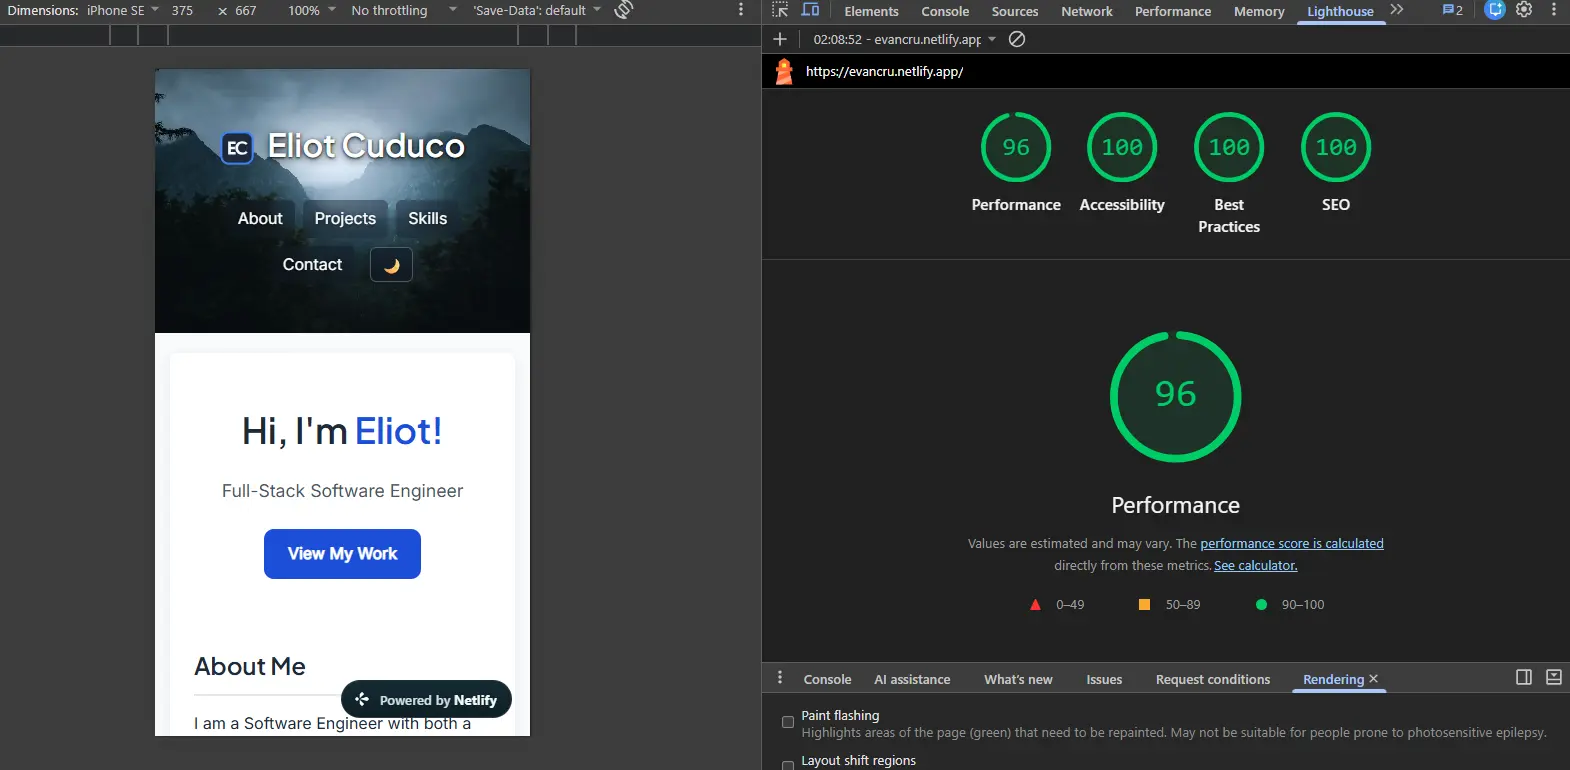
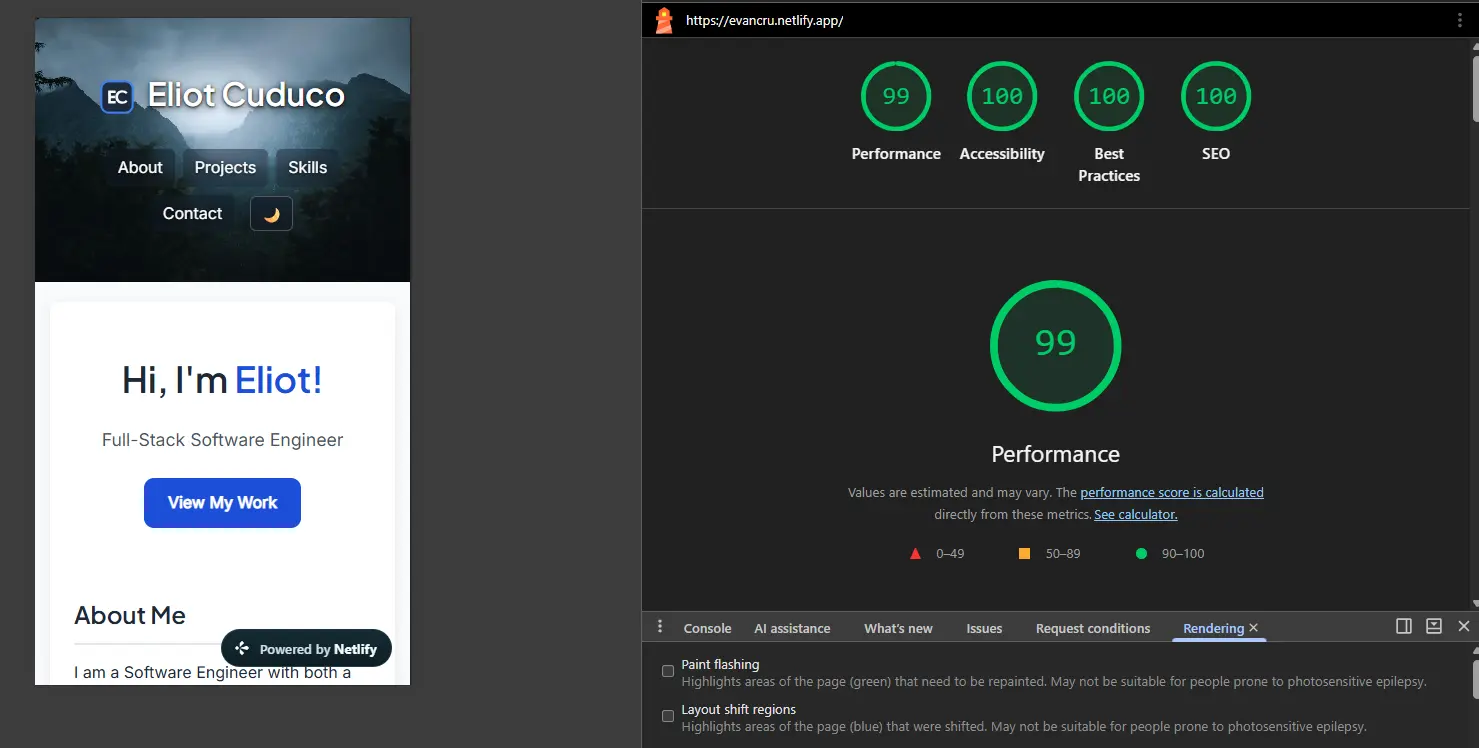
Update performance score in README and add live portfolio links

diff --git a/README.md b/README.md
@@ -93,7 +93,7 @@ npx serve .
 
 Audited on the live Netlify production deployment via Google Lighthouse:
 
-* **Performance:** 96 *(Bundled & minified CSS/JS via `esbuild`, WebP assets, deferred script execution)*
+* **Performance:** 99 *(Bundled & minified CSS/JS via `esbuild`, WebP assets, deferred script execution)*
 * **Accessibility:** 100 *(WCAG AA/AAA high-contrast tokens, semantic landmarks, ARIA live regions)*
 * **Best Practices:** 100 *(Secure HTTPS delivery, modern image formats, clean console)*
 * **SEO:** 100 *(Semantic HTML5 structure, descriptive metadata, mobile-friendly viewport)*
@@ -104,6 +104,6 @@ Audited on the live Netlify production deployment via Google Lighthouse:
 
 ## 📬 Contact
 
-* **Portfolio:** [Your Live URL]
-* **GitHub:** [Your GitHub Profile URL]
-* **LinkedIn:** [Your LinkedIn Profile URL]
+* **Portfolio:** [eliot-cuduco.netlify.app](https://eliot-cuduco.netlify.app)
+* **GitHub:** [https://cuduco19.github.io/portfolio](https://cuduco19.github.io/portfolio)
+* **LinkedIn:** [https://www.linkedin.com/in/eliotcuduco](https://www.linkedin.com/in/eliotcuduco)
